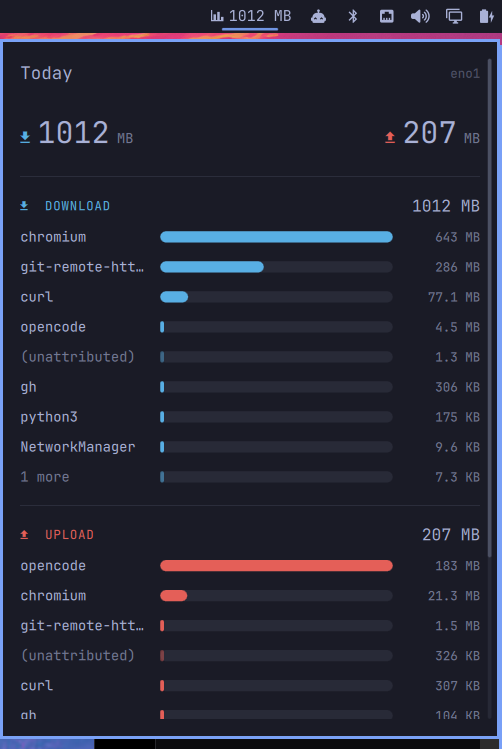
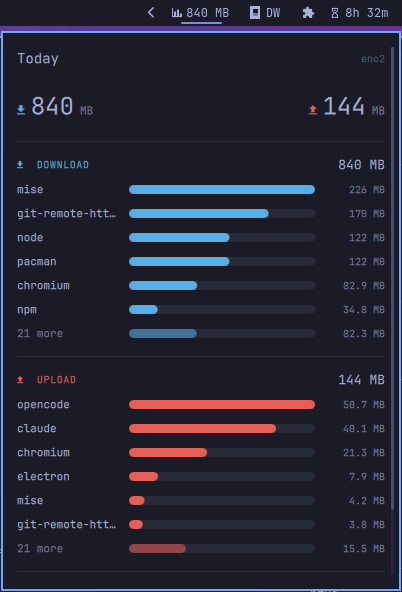
Shoot the panel with both charts whole, and the day strip beside it
The old preview was taken with enough apps in each chart that the upload half
ran off the bottom of the card. Two shots now: the panel itself, and the
footer strip with the day picker and the key hints, which is the half nobody
discovers on their own.

Neither has an unnamed row in it any more, which is the point of the release.

Changed region(s): [[0.0, 0.0, 1.0, 1.0]]

diff --git a/README.md b/README.md
@@ -154,6 +154,8 @@ omarchy bar move oliwier.network-usage --section right
 | `Tab` | Next panel |
 | `Esc` | Close |
 
+![The day strip and key hints along the bottom of the panel](docs/history.png)
+
 Clicking a day in the footer strip pins it; clicking today unpins.
 
 The last row of each chart sums whatever did not fit — click it to list every app instead, and
